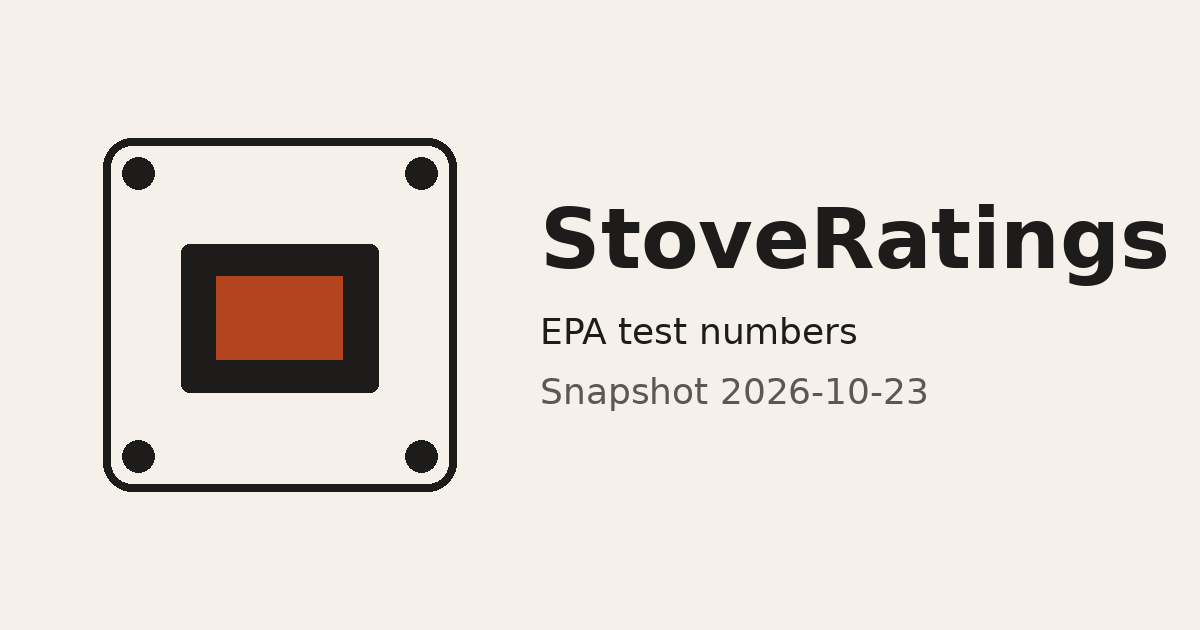
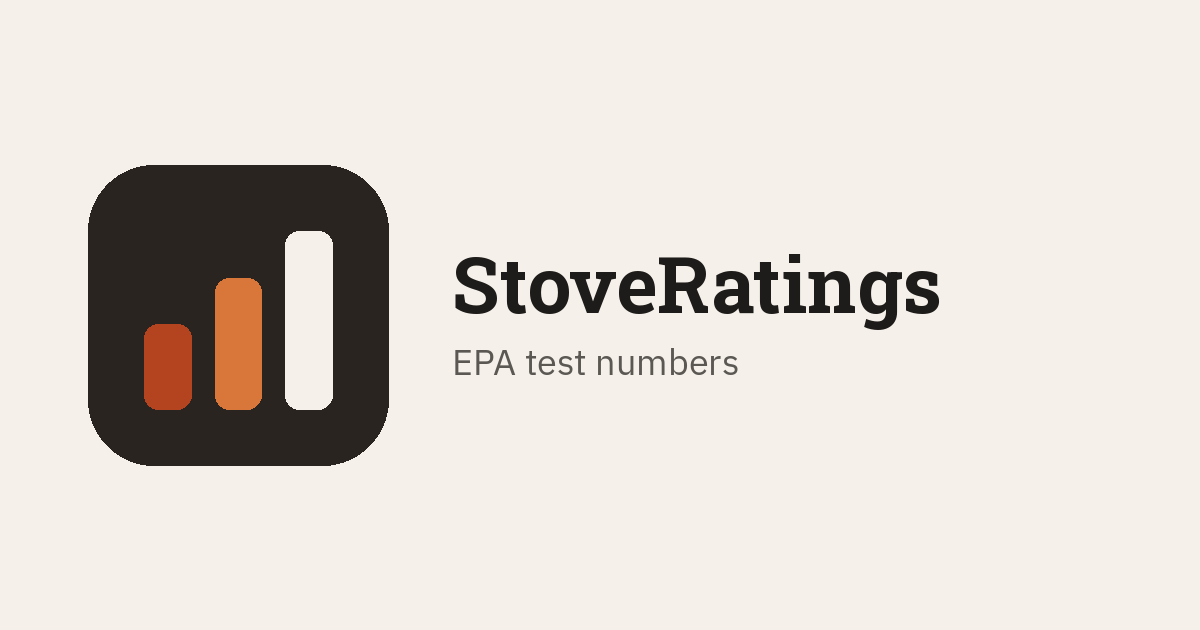
Apply the Ember Bars brand mark (#12)
The header keeps the StoveRatings wordmark and the current nav. Color tokens gain charcoal and ember-mid without a layout change.

Changed region(s): [[0.0617, 0.2111, 0.9867, 0.7841]]

diff --git a/src/styles/global.css b/src/styles/global.css
@@ -55,14 +55,21 @@
   --paper-2: #fffdf8;
   --chip: #e7e1d6;
   --line: #d9d1c4;
+  --line-strong: #857a6b;
   --ink: #1e1c1a;
   --soot: #5b5753;
+  --muted: #5b5753;
+  --subtle: #6e6963;
   --ember: #b4441f;
   --ember-dark: #8c3418;
+  --ember-mid: #d9773a;
+  --on-ember: #ffffff;
+  --charcoal: #2a2420;
   --amber-bg: #f3e2c0;
   --amber-ink: #6d4a08;
   --steel: #3e5c6b;
   --focus: #1e1c1a;
+  --shadow: 0 1px 0 rgba(30, 28, 26, .04);
   --font-display: "Roboto Slab", "Iowan Old Style", Palatino, Georgia, serif;
   --font-body: "IBM Plex Sans", "Plex Fallback", "Segoe UI", sans-serif;
   --font-mono: "IBM Plex Mono", ui-monospace, "SFMono-Regular", Consolas, monospace;
@@ -133,7 +140,7 @@ a:hover { color: var(--ember); }
   font-weight: 700;
   font-size: 1.25rem;
 }
-.mark { display: block; }
+.mark { display: block; width: 32px; height: 32px; flex: none; }
 .snapshot { color: var(--soot); font-size: var(--text-sm); min-height: var(--tap); }
 .nav { flex-wrap: wrap; gap: 0.1rem; }
 .nav a, .button, button, select, input[type="search"], input[type="number"], input[type="text"] {

diff --git a/scripts/make-icons.py b/scripts/make-icons.py
@@ -1,85 +1,90 @@
-"""Draw the StoveRatings icons. No EPA mark, no star, no rating."""
+"""Draw the StoveRatings Ember Bars social image.
+
+Favicon, apple-touch, PWA icons, and site.webmanifest in public/ are the
+design-kit files. This script refreshes public/og-image.png only.
+"""
 
 from pathlib import Path
+from tempfile import TemporaryDirectory
 
+from fontTools.ttLib import TTFont
 from PIL import Image, ImageDraw, ImageFont
 
-ROOT = Path(__file__).resolve().parents[1] / "public"
-PAPER = (245, 241, 234, 255)
-INK = (30, 28, 26, 255)
-EMBER = (180, 68, 31, 255)
-FONT = Path("/usr/share/fonts/truetype/dejavu/DejaVuSans-Bold.ttf")
-FONT_TEXT = Path("/usr/share/fonts/truetype/dejavu/DejaVuSans.ttf")
+ROOT = Path(__file__).resolve().parents[1]
+PUBLIC = ROOT / "public"
+PAPER = (245, 241, 234)
+INK = (30, 28, 26)
+SOOT = (91, 87, 83)
+CHARCOAL = (42, 36, 32)
+EMBER = (180, 68, 31)
+EMBER_MID = (217, 119, 58)
 
 
-def draw_plate(draw, box, stroke):
-    x0, y0, x1, y1 = box
-    width = x1 - x0
-    height = y1 - y0
-    radius = max(4, width // 12)
-    draw.rounded_rectangle(box, radius=radius, fill=PAPER, outline=INK, width=stroke)
-    bolt = max(2, width // 22)
-
-    def bolt_at(cx, cy):
-        draw.ellipse((cx - bolt, cy - bolt, cx + bolt, cy + bolt), fill=INK)
-
-    inset = max(6, width // 10)
-    bolt_at(x0 + inset, y0 + inset)
-    bolt_at(x1 - inset, y0 + inset)
-    bolt_at(x0 + inset, y1 - inset)
-    bolt_at(x1 - inset, y1 - inset)
-    body = (
-        x0 + width * 0.22,
-        y0 + height * 0.30,
-        x1 - width * 0.22,
-        y1 - height * 0.28,
-    )
-    draw.rounded_rectangle(body, radius=max(2, width // 40), fill=INK)
-    window = (
-        body[0] + (body[2] - body[0]) * 0.18,
-        body[1] + (body[3] - body[1]) * 0.22,
-        body[2] - (body[2] - body[0]) * 0.18,
-        body[3] - (body[3] - body[1]) * 0.22,
-    )
-    draw.rectangle(window, fill=EMBER)
+def ttf_from_woff2(woff2, dest):
+    font = TTFont(woff2)
+    font.flavor = None
+    font.save(dest)
+    return dest
 
 
-def icon(size, pad_ratio):
-    image = Image.new("RGBA", (size, size), PAPER)
-    draw = ImageDraw.Draw(image)
-    pad = int(size * pad_ratio)
-    stroke = max(2, size // 48)
-    draw_plate(draw, (pad, pad, size - pad - 1, size - pad - 1), stroke)
-    return image
+def draw_mark(draw, origin, size):
+    x, y = origin
+    scale = size / 64
 
+    def box(bx, by, bw, bh):
+        return (
+            x + bx * scale,
+            y + by * scale,
+            x + (bx + bw) * scale,
+            y + (by + bh) * scale,
+        )
 
-def save_png(image, name):
-    image.save(ROOT / name, "PNG")
+    draw.rounded_rectangle(box(0, 0, 64, 64), radius=14 * scale, fill=CHARCOAL)
+    draw.rounded_rectangle(box(12, 34, 10, 18), radius=3 * scale, fill=EMBER)
+    draw.rounded_rectangle(box(27, 24, 10, 28), radius=3 * scale, fill=EMBER_MID)
+    draw.rounded_rectangle(box(42, 14, 10, 38), radius=3 * scale, fill=PAPER)
 
 
 def main():
-    save_png(icon(180, 0.08), "apple-touch-icon.png")
-    save_png(icon(192, 0.08), "icon-192.png")
-    save_png(icon(512, 0.08), "icon-512.png")
-    save_png(icon(512, 0.22), "icon-maskable-512.png")
-    ico_base = icon(48, 0.06)
-    ico_base.save(
-        ROOT / "favicon.ico",
-        format="ICO",
-        sizes=[(16, 16), (32, 32), (48, 48)],
-        append_images=[icon(16, 0.04), icon(32, 0.06)],
-    )
+    with TemporaryDirectory() as tmp_name:
+        tmp = Path(tmp_name)
+        display = ttf_from_woff2(
+            PUBLIC / "fonts" / "roboto-slab-latin-700-normal.woff2",
+            tmp / "roboto-slab-700.ttf",
+        )
+        body = ttf_from_woff2(
+            PUBLIC / "fonts" / "ibm-plex-sans-latin-400-normal.woff2",
+            tmp / "ibm-plex-sans-400.ttf",
+        )
+        write_og(display, body)
 
-    og = Image.new("RGB", (1200, 630), PAPER[:3])
-    draw = ImageDraw.Draw(og)
-    plate = icon(420, 0.08).convert("RGB")
-    og.paste(plate, (70, 105))
-    title = ImageFont.truetype(str(FONT), 84)
-    body = ImageFont.truetype(str(FONT_TEXT), 36)
-    draw.text((540, 190), "StoveRatings", font=title, fill=INK[:3])
-    draw.text((540, 310), "EPA test numbers", font=body, fill=INK[:3])
-    draw.text((540, 370), "Snapshot 2026-10-23", font=body, fill=(91, 87, 83))
-    og.save(ROOT / "og-image.png", "PNG")
+
+def write_og(display, body):
+
+    width, height = 1200, 630
+    image = Image.new("RGB", (width, height), PAPER)
+    draw = ImageDraw.Draw(image)
+    mark = 300
+    draw_mark(draw, (88, (height - mark) // 2), mark)
+
+    title_font = ImageFont.truetype(str(display), 78)
+    sub_font = ImageFont.truetype(str(body), 36)
+    title = "StoveRatings"
+    subtitle = "EPA test numbers"
+    title_box = draw.textbbox((0, 0), title, font=title_font)
+    sub_box = draw.textbbox((0, 0), subtitle, font=sub_font)
+    gap = 18
+    block = (title_box[3] - title_box[1]) + gap + (sub_box[3] - sub_box[1])
+    text_x = 88 + mark + 64
+    text_y = (height - block) / 2
+    draw.text((text_x, text_y - title_box[1]), title, font=title_font, fill=INK)
+    draw.text(
+        (text_x, text_y + (title_box[3] - title_box[1]) + gap - sub_box[1]),
+        subtitle,
+        font=sub_font,
+        fill=SOOT,
+    )
+    image.save(PUBLIC / "og-image.png", "PNG")
 
 
 if __name__ == "__main__":
